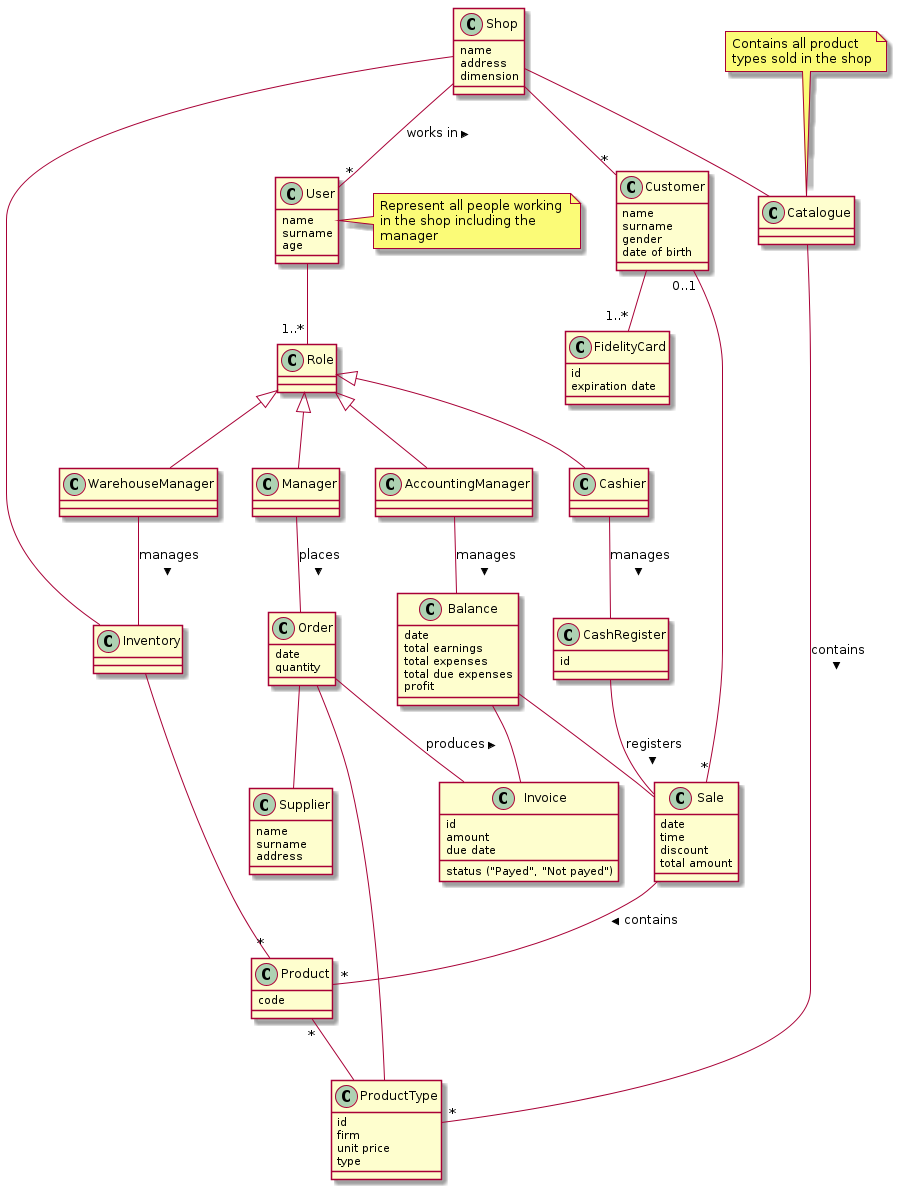
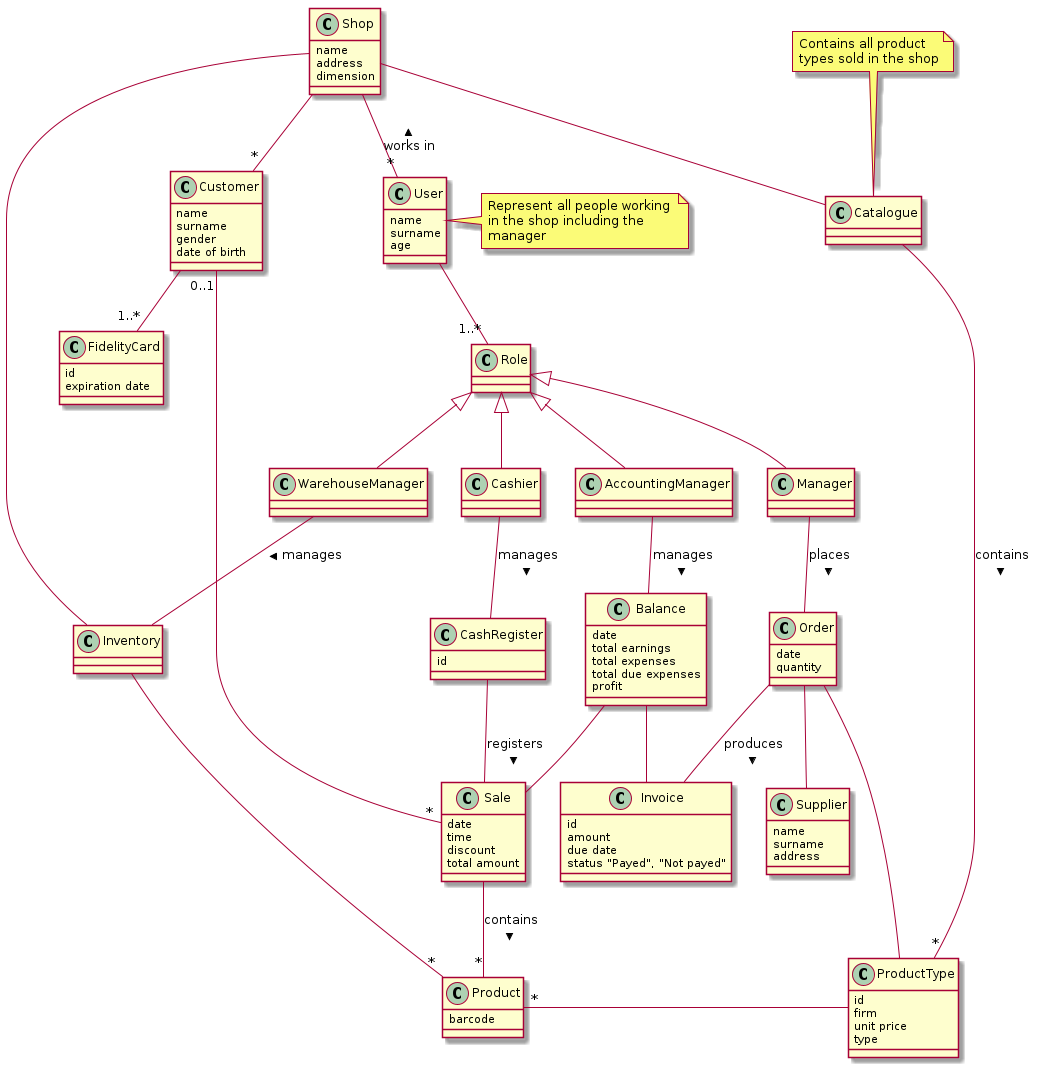
doc: modifed glossary

diff --git a/Deliverables/RequirementsDocument.md b/Deliverables/RequirementsDocument.md
@@ -626,7 +626,7 @@ The following table indicates which actor have the rights to perform functional 
 			type
 		}
 		class Product{
-			code
+			barcode
 		}
 		class Inventory{
 		}
@@ -679,7 +679,7 @@ The following table indicates which actor have the rights to perform functional 
 			id
 			amount
 			due date
-			status ("Payed", "Not payed")
+			status "Payed", "Not payed"
 		}
 		class Balance{
 			date
@@ -692,7 +692,7 @@ The following table indicates which actor have the rights to perform functional 
 		Shop -- Inventory
 		Shop -- Catalogue
 		Inventory -- "*"Product
-		Product"*" -- ProductType
+		Product"*" - ProductType
 		Shop -- "*"User: works in <
 		User -- "1..*" Role
 		Role <|-- Cashier
